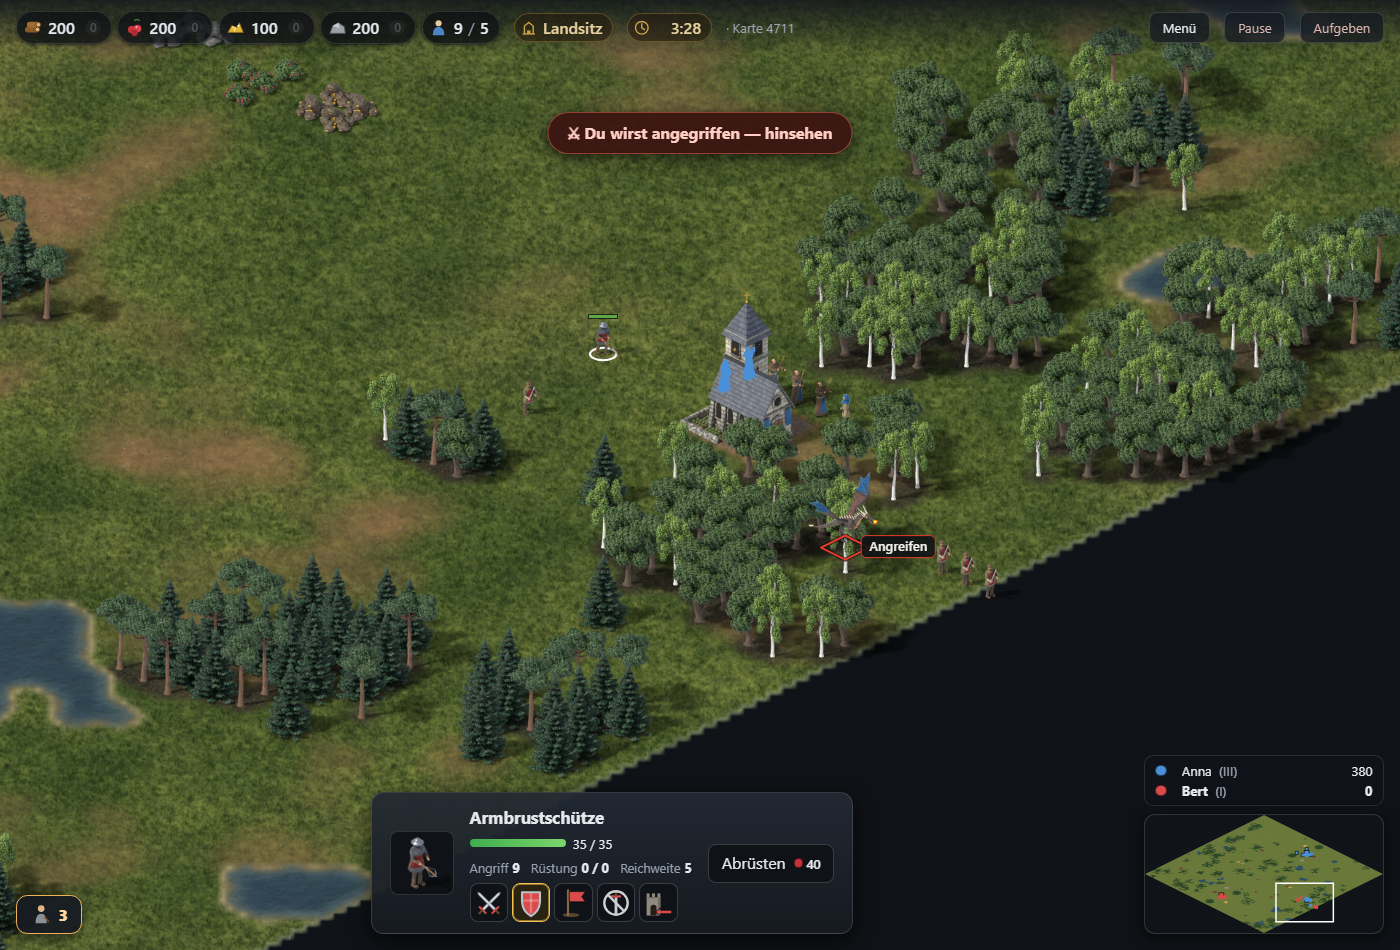
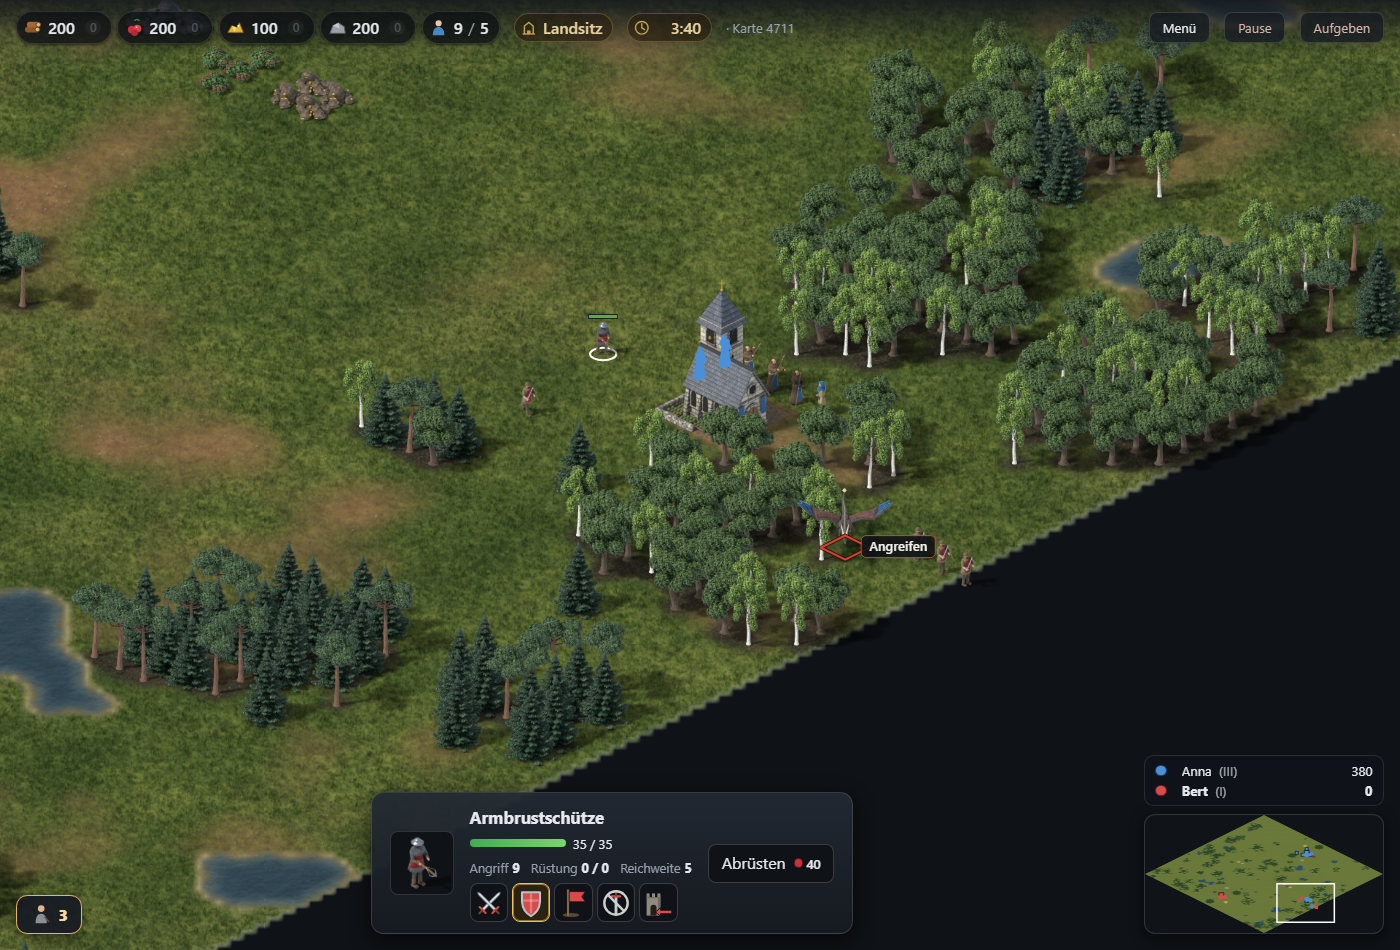
einheiten AC-74: der Drache verfolgt ohne Stocken
Ausser Reichweite nimmt ein Flieger in jedem Takt die Lage des Ziels und
fliegt ohne Wegsuche los; in Reichweite gleitet er hinterher
(welt.nachfliegen, FLUG_ABSTAND 0,5) und speit dabei. Vorher flog er zwei
Takte und stand zwei. Im Bild zeigt ein Flieger nie die stehende Haltung
und den Feueratem nur im Schlag (ansicht.fliegt, figurPhasen).

Test mit fliehendem Dorfbewohner, Browserfall mit Bild. Die Faelle danach
raeumen auf (Feuer aus AC-52 losgelassen, Drache zurueck an seinen Platz),
deshalb neue Bilder fuer kampf AC-23 und einheiten AC-53.

diff --git a/server/spiele/strategie/welt.js b/server/spiele/strategie/welt.js
@@ -39,6 +39,10 @@ const BAU_NAEHE = 8;
 // Felder) zuschlaegt; am Rand einer Grundflaeche messen wir genauer.
 const SCHLAGRAND = 0.5;
 const SCHLAGRAND_BAU = 0.2;
+// So weit innerhalb seiner Reichweite haelt sich ein Flieger an einer
+// Einheit, die er verfolgt (einheiten AC-74), in Feldern: genug, dass ein
+// Schritt des Ziels ihn nicht aus der Reichweite bringt.
+const FLUG_ABSTAND = 0.5;
 // So oft sieht sich eine stehende Kampfeinheit um (kampf AC-2): zweimal je
 // Sekunde. Jeder Takt waere fuenfmal so teuer und im Spiel nicht zu merken.
 const WACHE_TAKTE = 5;
@@ -4600,6 +4604,15 @@ class Welt {
     if (nahGenug && (fern || !auftrag.gebaeude || !einheit.weg.length)) auftrag.angekommen = true;
     if (!nahGenug || (einheit.weg.length && !fern && !auftrag.angekommen)) {
       auftrag.tritt = false;
+      // Wer fliegt, braucht keinen Platz am Boden und keine Wegsuche
+      // (einheiten AC-74): er nimmt in jedem Takt die Lage des Ziels, statt
+      // zum Feld zu fliegen, wo es beim Befehl stand, und verliert keinen
+      // Takt mit Suchen. Sonst flog der Drache zwei Takte und stand zwei.
+      if (!auftrag.gebaeude && EINHEITEN[einheit.art].fliegt) {
+        einheit.weg = [{ x: ziel.x, y: ziel.y }];
+        this.laufen(einheit);
+        return;
+      }
       if (einheit.weg.length) {
         this.laufen(einheit);
         return;
@@ -4656,6 +4669,10 @@ class Welt {
       auftrag.tritt = false;
     }
     einheit.weg = [];
+    // In Reichweite bleibt ein Flieger am Ziel (einheiten AC-74): laeuft es
+    // weiter, gleitet er hinterher und speit dabei - ein Bodenschuetze
+    // bleibt zum Schiessen stehen, der Drache haette sonst gestockt.
+    if (!auftrag.gebaeude && EINHEITEN[einheit.art].fliegt) this.nachfliegen(einheit, ziel, reichweite);
     if (einheit.nachladen > 0) {
       einheit.nachladen--;
       return;
@@ -4669,6 +4686,32 @@ class Welt {
     // dazu aus (bedienung AC-72).
     einheit.schlagTakt = this.takt;
     this.schlagen(einheit, ziel, auftrag.gebaeude);
+  }
+
+  /**
+   * Ein Flieger in Reichweite folgt seinem Ziel (einheiten AC-74): so weit,
+   * dass er `FLUG_ABSTAND` innerhalb der Reichweite bleibt, hoechstens so weit
+   * wie in einem Takt. Steht das Ziel, steht er.
+   *
+   * Gemessen wird zu der Lage, die das Ziel am Ende dieses Takts hat: ist es
+   * in diesem Takt noch nicht gegangen (kampf AC-26, gewuerfelte
+   * Reihenfolge), wird sein Schritt vorweggenommen. Sonst stand der Drache
+   * in jedem Takt, in dem er vor dem Ziel an der Reihe war.
+   */
+  nachfliegen(einheit, ziel, reichweite) {
+    let nach = ziel;
+    if (ziel.weg?.length && ziel.x === ziel.taktX && ziel.y === ziel.taktY) {
+      nach = { x: ziel.x, y: ziel.y, weg: ziel.weg.slice(0, 2) };
+      wegGehen(nach, this.einheitenwert(ziel.besitzer, ziel.art, 'tempo') / TAKTE_PRO_SEKUNDE);
+    }
+    const dx = nach.x - einheit.x;
+    const dy = nach.y - einheit.y;
+    const abstand = Math.hypot(dx, dy);
+    const zuviel = abstand - (reichweite - FLUG_ABSTAND);
+    if (zuviel <= 0) return;
+    const schritt = Math.min(zuviel, this.einheitenwert(einheit.besitzer, einheit.art, 'tempo') / TAKTE_PRO_SEKUNDE);
+    einheit.x += (dx / abstand) * schritt;
+    einheit.y += (dy / abstand) * schritt;
   }
 
   /**

diff --git a/public/ansicht.js b/public/ansicht.js
@@ -2850,6 +2850,27 @@ export class Ansicht {
     return seit < nachladen + SCHLAG_UEBERFAELLIG ? 0.5 : 0;
   }
 
+  /** Ob eine Einheit fliegt (einheiten AC-52) - gefallen fliegt keiner. */
+  fliegt(einheit) {
+    return !einheit.s && Boolean(this.werte.einheiten[this.arten[einheit.k]]?.fliegt);
+  }
+
+  /**
+   * Schritt und Arbeit einer Figur im Bild: wer geht, geht, wer steht und
+   * arbeitet, arbeitet. Ein Flieger (einheiten AC-74) steht nie in der Luft:
+   * er schlaegt mit den Fluegeln, auch auf der Stelle und beim Gleiten hinter
+   * seinem Ziel, und speit nur, solange ein Schlag laeuft. Sonst wechselte
+   * sein Bild beim Verfolgen fuenfmal je Sekunde zwischen Flug und
+   * angelegten Fluegeln.
+   */
+  figurPhasen(einheit, laeuft) {
+    if (this.fliegt(einheit)) {
+      const speit = Boolean(einheit.w) && this.schlagAnteil(einheit) > 0;
+      return { schritt: speit ? 0 : jetztPhase(einheit.i), arbeit: speit ? this.arbeitPhase(einheit) : 0 };
+    }
+    return { schritt: laeuft ? jetztPhase(einheit.i) : 0, arbeit: einheit.w && !laeuft ? this.arbeitPhase(einheit) : 0 };
+  }
+
   /**
    * Die Phase fuer `arbeit` einer Figur: wer kaempft, nach dem Schlag des
    * Servers, wer arbeitet, nach der Uhr. Nie 0 - das hiesse "arbeitet nicht".
@@ -3370,8 +3391,7 @@ export class Ansicht {
           blick: this.blicke.get(einheit.i) || 1,
           richtung: this.richtungen.get(einheit.i),
           ladung: einheit.l > 0 ? einheit.a : null,
-          schritt: laeuft ? jetztPhase(einheit.i) : 0,
-          arbeit: einheit.w && !laeuft ? this.arbeitPhase(einheit) : 0,
+          ...this.figurPhasen(einheit, laeuft),
         }, true);
         s.restore();
       });
@@ -4330,7 +4350,7 @@ export class Ansicht {
       }
     }
 
-    if (einheit.w && !laeuft) this.schlagHoeren(einheit, punkt);
+    if (einheit.w && (!laeuft || this.fliegt(einheit))) this.schlagHoeren(einheit, punkt);
 
     // Ein Dorfbewohner mit Ladung traegt sie sichtbar: Holzbuendel oder
     // Beerenkorb auf dem Ruecken (bedienung AC-16, darstellung AC-6).
@@ -4338,10 +4358,9 @@ export class Ansicht {
       blick: this.blicke.get(einheit.i) || 1,
       richtung: this.richtungen.get(einheit.i),
       ladung: einheit.l > 0 ? einheit.a : null,
-      schritt: laeuft ? jetztPhase(einheit.i) : 0,
       // Wer arbeitet, bewegt sich dabei (bedienung AC-31) - wer kaempft,
       // einmal je Schlag (bedienung AC-72).
-      arbeit: einheit.w && !laeuft ? this.arbeitPhase(einheit) : 0,
+      ...this.figurPhasen(einheit, laeuft),
     });
     // Steht jemand hinter einem Gebaeude, kommt er danach als Umriss darueber.
     const decken = this.deckendeGebaeude(einheit, punkt);

diff --git a/specs/BOARD.md b/specs/BOARD.md
@@ -7,9 +7,9 @@ Eine Zeile je Abnahmekriterium. Gepflegt wird der Status in der Spec selbst,
 hier steht er zusammengefasst. Erzeugt mit `npm run specs:board`; als Seite
 mit Bildnachweisen, Filter und Suche mit `npm run qa:report`.
 
-**Gesamt:** 690/774 fertig · 3 in Arbeit · 19 in QA · 3 geplant · 51 offen · 8 zurueckgestellt
+**Gesamt:** 691/775 fertig · 3 in Arbeit · 19 in QA · 3 geplant · 51 offen · 8 zurueckgestellt
 
-**Nachweise:** 360 Kriterien mit Bild · 340 ohne Bild, begruendet in `qa/ohne-bild.json`
+**Nachweise:** 361 Kriterien mit Bild · 340 ohne Bild, begruendet in `qa/ohne-bild.json`
 
 ## Nach Spezifikation
 
@@ -24,7 +24,7 @@ mit Bildnachweisen, Filter und Suche mit `npm run qa:report`.
 | [Bauen und Ausbilden](10-strategie/bauen.md)                   | -         | -     | -       | -     | -               | 62     |
 | [Bedienung](10-strategie/bedienung.md)                         | -         | 2     | -       | 3     | -               | 84     |
 | [Darstellung](10-strategie/darstellung.md)                     | 1         | 1     | -       | 4     | -               | 27     |
-| [Einheiten und Befehle](10-strategie/einheiten-und-befehle.md) | -         | 1     | -       | 2     | 1               | 62     |
+| [Einheiten und Befehle](10-strategie/einheiten-und-befehle.md) | -         | 1     | -       | 2     | 1               | 63     |
 | [Fahrplan zum Klon](10-strategie/fahrplan.md)                  | -         | 2     | -       | 2     | -               | 22     |
 | [Kampf](10-strategie/kampf.md)                                 | -         | -     | -       | -     | 1               | 31     |
 | [Karte und Vorraete](10-strategie/karte-und-vorraete.md)       | -         | -     | -       | 2     | 3               | 14     |

diff --git a/specs/10-strategie/einheiten-und-befehle.md b/specs/10-strategie/einheiten-und-befehle.md
@@ -2,7 +2,7 @@
 
 **Bereich:** Strategie
 **Kuerzel:** einheiten
-**Stand:** 62/66 fertig · 1 in QA · 2 offen · 1 zurueckgestellt
+**Stand:** 63/67 fertig · 1 in QA · 2 offen · 1 zurueckgestellt
 
 ## Zweck
 
@@ -834,6 +834,21 @@ der Einheit bleiben die der Vorstufe. Die Werte stehen in
   alle, gesehen nur, wo ein Auge ist; im Browser steht im Nebel an jedem
   Nest ein Ei und auf der Übersicht ein Punkt, ein leer gesehenes Nest
   verschwindet.
+- **AC-74** `fertig` **Der Drache verfolgt ohne Stocken** — Greift der
+  Drache (AC-52) eine Einheit an, die läuft, fliegt er ihr in jedem Takt
+  nach, ohne Wegsuche und ohne den Platz von eben. Ist sie in Reichweite,
+  gleitet er so weit hinterher, dass er einen halben Schritt innerhalb der
+  Reichweite bleibt (`FLUG_ABSTAND`), und speit dabei weiter — ein Schütze
+  am Boden bleibt zum Schießen stehen, der Drache nicht. Gemessen wird zu
+  der Lage, die das Ziel am Ende des Takts hat (die Reihenfolge ist
+  gewürfelt, Kampf AC-26). Im Bild steht ein Flieger nie mit angelegten
+  Flügeln: er schlägt mit ihnen, auch auf der Stelle, und zeigt das Speien
+  nur, solange ein Schlag läuft. **Benutzer, 2026-11-25:** „wenn der
+  drache jemandem nachfliegt ist das etwas hibbelig". Vorher flog er zwei
+  Takte und stand zwei — im Bild fünfmal je Sekunde Flug und Stand.
+  **Messbar:** läuft das Ziel vom Drachen fort, hält er in 30 Sekunden
+  höchstens einmal an (vorher 13-mal); im Browser zeigt die Figur dabei
+  kein Standbild.
 
 ## Grenzfaelle
 

diff --git a/CLAUDE.md b/CLAUDE.md
@@ -185,7 +185,7 @@ Umfang hinzufügt, dort nachsehen.
 
 ## Stand
 
-**690 von 774 Kriterien fertig.** 1269 Tests ohne Browser und 39 ganze Partien, 379 im Browser. Die
+**691 von 775 Kriterien fertig.** 1273 Tests ohne Browser und 39 ganze Partien, 380 im Browser. Die
 Übersicht ist der Bericht: `npm run qa:report`.
 
 Gebaut ist der Unterbau: Räume, Übertragung, Karte, Wegfindung, Sammeln,
